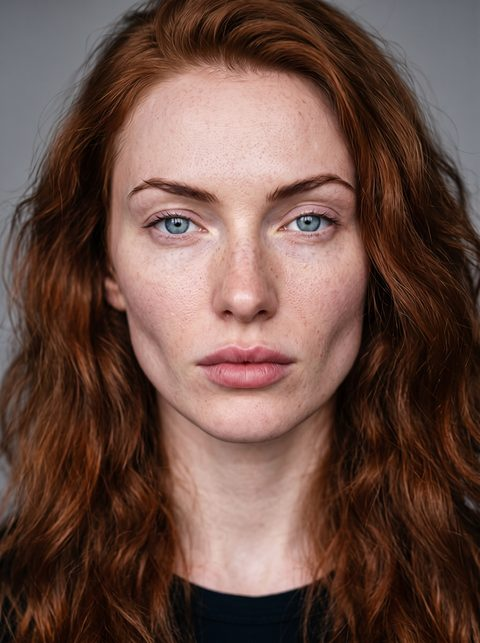
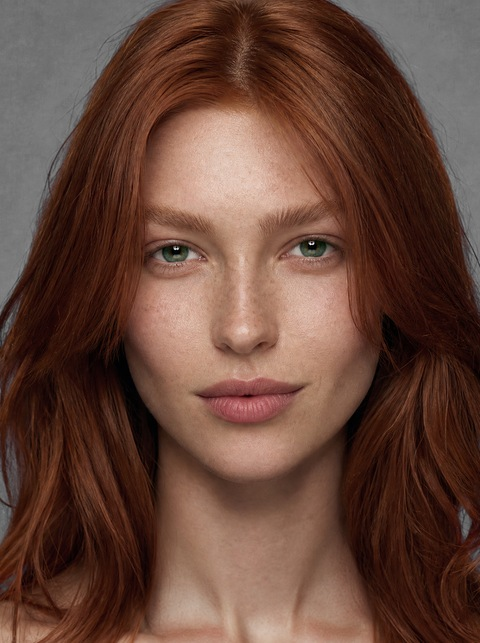
Modeles : nouvelle Alice (femmes), cadrage aligne sur Alex

diff --git a/modeles.html b/modeles.html
@@ -204,7 +204,7 @@ footer a:hover{color:var(--pink2)}
 const FLAT = [{"slug": "femmes-agatha", "name": "Agatha", "section": "Femmes", "sheet": "img/m-femmes-agatha-sheet.jpg", "face": "img/m-femmes-agatha-face.jpg"}, {"slug": "femmes-alex", "name": "Alex", "section": "Femmes", "sheet": "img/m-femmes-alex-sheet.jpg", "face": "img/m-femmes-alex-face.jpg"}, {"slug": "femmes-alice", "name": "Alice", "section": "Femmes", "sheet": "img/m-femmes-alice-sheet.jpg", "face": "img/m-femmes-alice-face.jpg"}, {"slug": "femmes-cyndie", "name": "Cyndie", "section": "Femmes", "sheet": "img/m-femmes-cyndie-sheet.jpg", "face": "img/m-femmes-cyndie-face.jpg"}, {"slug": "femmes-ella", "name": "Ella", "section": "Femmes", "sheet": "img/m-femmes-ella-sheet.jpg", "face": "img/m-femmes-ella-lbface.jpg"}, {"slug": "femmes-eva", "name": "Eva", "section": "Femmes", "sheet": "img/m-femmes-eva-sheet.jpg", "face": "img/m-femmes-eva-face.jpg"}, {"slug": "femmes-ivanka", "name": "Ivanka", "section": "Femmes", "sheet": "img/m-femmes-ivanka-sheet.jpg", "face": "img/m-femmes-ivanka-lbface.jpg"}, {"slug": "femmes-joy", "name": "Joy", "section": "Femmes", "sheet": "img/m-femmes-joy-sheet.jpg", "face": "img/m-femmes-joy-face.jpg"}, {"slug": "femmes-kim", "name": "Kim", "section": "Femmes", "sheet": "img/m-femmes-kim-sheet.jpg", "face": "img/m-femmes-kim-face.jpg"}, {"slug": "femmes-laura", "name": "Laura", "section": "Femmes", "sheet": "img/m-femmes-laura-sheet.jpg", "face": "img/m-femmes-laura-lbface.jpg"}, {"slug": "femmes-malika", "name": "Malika", "section": "Femmes", "sheet": "img/m-femmes-malika-sheet.jpg", "face": "img/m-femmes-malika-face.jpg"}, {"slug": "femmes-meg", "name": "Meg", "section": "Femmes", "sheet": "img/m-femmes-meg-sheet.jpg", "face": "img/m-femmes-meg-lbface.jpg"}, {"slug": "femmes-rachel", "name": "Rachel", "section": "Femmes", "sheet": "img/m-femmes-rachel-sheet.jpg", "face": "img/m-femmes-rachel-lbface.jpg"}, {"slug": "femmes-stephy", "name": "Stephy", "section": "Femmes", "sheet": "img/m-femmes-stephy-sheet.jpg", "face": "img/m-femmes-stephy-lbface.jpg"}, {"slug": "femmes-suzanne", "name": "Suzanne", "section": "Femmes", "sheet": "img/m-femmes-suzanne-sheet.jpg", "face": "img/m-femmes-suzanne-face.jpg"}, {"slug": "femmes-tracy", "name": "Tracy", "section": "Femmes", "sheet": "img/m-femmes-tracy-sheet.jpg", "face": "img/m-femmes-tracy-face.jpg"}, {"slug": "hommes-ansel", "name": "Ansel", "section": "Hommes", "sheet": "img/m-hommes-ansel-sheet.jpg", "face": "img/m-hommes-ansel-face.jpg"}, {"slug": "hommes-bernard", "name": "Bernard", "section": "Hommes", "sheet": "img/m-hommes-bernard-sheet.jpg", "face": "img/m-hommes-bernard-face.jpg"}, {"slug": "hommes-bill", "name": "Bill", "section": "Hommes", "sheet": "img/m-hommes-bill-sheet.jpg", "face": "img/m-hommes-bill-face.jpg"}, {"slug": "hommes-chen", "name": "Chen", "section": "Hommes", "sheet": "img/m-hommes-chen-sheet.jpg", "face": "img/m-hommes-chen-face.jpg"}, {"slug": "hommes-daniel", "name": "Daniel", "section": "Hommes", "sheet": "img/m-hommes-daniel-sheet.jpg", "face": "img/m-hommes-daniel-face.jpg"}, {"slug": "hommes-dave", "name": "Dave", "section": "Hommes", "sheet": "img/m-hommes-dave-sheet.jpg", "face": "img/m-hommes-dave-face.jpg"}, {"slug": "hommes-franck", "name": "Franck", "section": "Hommes", "sheet": "img/m-hommes-franck-sheet.jpg", "face": "img/m-hommes-franck-face.jpg"}, {"slug": "hommes-jack", "name": "Jack", "section": "Hommes", "sheet": "img/m-hommes-jack-sheet.jpg", "face": "img/m-hommes-jack-face.jpg"}, {"slug": "hommes-jamie", "name": "Jamie", "section": "Hommes", "sheet": "img/m-hommes-jamie-sheet.jpg", "face": "img/m-hommes-jamie-face.jpg"}, {"slug": "hommes-joe", "name": "Joe", "section": "Hommes", "sheet": "img/m-hommes-joe-sheet.jpg", "face": "img/m-hommes-joe-face.jpg"}, {"slug": "hommes-john", "name": "John", "section": "Hommes", "sheet": "img/m-hommes-john-sheet.jpg", "face": "img/m-hommes-john-face.jpg"}, {"slug": "hommes-marc", "name": "Marc", "section": "Hommes", "sheet": "img/m-hommes-marc-sheet.jpg", "face": "img/m-hommes-marc-face.jpg"}, {"slug": "hommes-mathias", "name": "Mathias", "section": "Hommes", "sheet": "img/m-hommes-mathias-sheet.jpg", "face": "img/m-hommes-mathias-face.jpg"}, {"slug": "hommes-mike", "name": "Mike", "section": "Hommes", "sheet": "img/m-hommes-mike-sheet.jpg", "face": "img/m-hommes-mike-face.jpg"}, {"slug": "hommes-simon", "name": "Simon", "section": "Hommes", "sheet": "img/m-hommes-simon-sheet.jpg", "face": "img/m-hommes-simon-face.jpg"}, {"slug": "hommes-tom", "name": "Tom", "section": "Hommes", "sheet": "img/m-hommes-tom-sheet.jpg", "face": "img/m-hommes-tom-face.jpg"}, {"slug": "ados-maeva", "name": "Maeva", "section": "Ados", "sheet": "img/m-ados-maeva-sheet.jpg", "face": "img/m-ados-maeva-face.jpg"}, {"slug": "ados-mathis", "name": "Mathis", "section": "Ados", "sheet": "img/m-ados-mathis-sheet.jpg", "face": "img/m-ados-mathis-face.jpg"}, {"slug": "ados-paul", "name": "Paul", "section": "Ados", "sheet": "img/m-ados-paul-sheet.jpg", "face": "img/m-ados-paul-lbface.jpg"}, {"slug": "ados-romy", "name": "Romy", "section": "Ados", "sheet": "img/m-ados-romy-sheet.jpg", "face": "img/m-ados-romy-face.jpg"}, {"slug": "ados-roy", "name": "Roy", "section": "Ados", "sheet": "img/m-ados-roy-sheet.jpg", "face": "img/m-ados-roy-face.jpg"}, {"slug": "ados-steeve", "name": "Steeve", "section": "Ados", "sheet": "img/m-ados-steeve-sheet.jpg", "face": "img/m-ados-steeve-face.jpg"}, {"slug": "enfants-billy", "name": "Billy", "section": "Enfants", "sheet": "img/m-enfants-billy-sheet.jpg", "face": "img/m-enfants-billy-face.jpg"}, {"slug": "enfants-jean", "name": "Jean", "section": "Enfants", "sheet": "img/m-enfants-jean-sheet.jpg", "face": "img/m-enfants-jean-face.jpg"}, {"slug": "enfants-kevin", "name": "Kevin", "section": "Enfants", "sheet": "img/m-enfants-kevin-sheet.jpg", "face": "img/m-enfants-kevin-face.jpg"}, {"slug": "enfants-lauren", "name": "Lauren", "section": "Enfants", "sheet": "img/m-enfants-lauren-sheet.jpg", "face": "img/m-enfants-lauren-face.jpg"}, {"slug": "enfants-lea", "name": "Lea", "section": "Enfants", "sheet": "img/m-enfants-lea-sheet.jpg", "face": "img/m-enfants-lea-face.jpg"}, {"slug": "enfants-rosie", "name": "Rosie", "section": "Enfants", "sheet": "img/m-enfants-rosie-sheet.jpg", "face": "img/m-enfants-rosie-face.jpg"}, {"slug": "seniors-anita", "name": "Anita", "section": "Seniors", "sheet": "img/m-seniors-anita-sheet.jpg", "face": "img/m-seniors-anita-face.jpg"}, {"slug": "seniors-claude", "name": "Claude", "section": "Seniors", "sheet": "img/m-seniors-claude-sheet.jpg", "face": "img/m-seniors-claude-face.jpg"}, {"slug": "seniors-clive", "name": "Clive", "section": "Seniors", "sheet": "img/m-seniors-clive-sheet.jpg", "face": "img/m-seniors-clive-face.jpg"}, {"slug": "seniors-juliette", "name": "Juliette", "section": "Seniors", "sheet": "img/m-seniors-juliette-sheet.jpg", "face": "img/m-seniors-juliette-face.jpg"}, {"slug": "seniors-marise", "name": "Marise", "section": "Seniors", "sheet": "img/m-seniors-marise-sheet.jpg", "face": "img/m-seniors-marise-face.jpg"}, {"slug": "seniors-philippe", "name": "Philippe", "section": "Seniors", "sheet": "img/m-seniors-philippe-sheet.jpg", "face": "img/m-seniors-philippe-face.jpg"}];
 (function(){var e=document.getElementById('kcount');if(!e)return;var s={};FLAT.forEach(function(m){s[m.section]=1});e.textContent=FLAT.length+' visages \u00b7 '+Object.keys(s).length+' catégories';})();
 
-const STATS = {"femmes-agatha": {"h": 176, "hair": "Blond", "eyes": "Bleu"}, "femmes-alex": {"h": 174, "hair": "Châtain foncé, balayage caramel", "eyes": "Noisette"}, "femmes-alice": {"h": 178, "hair": "Roux", "eyes": "Bleu"}, "femmes-cyndie": {"h": 179, "hair": "Noir", "eyes": "Marron"}, "femmes-ella": {"h": 175, "hair": "Châtain clair", "eyes": "Vert"}, "femmes-eva": {"h": 172, "hair": "Noir", "eyes": "Marron"}, "femmes-ivanka": {"h": 175, "hair": "Blond vénitien", "eyes": "Vert"}, "femmes-joy": {"h": 180, "hair": "Noir", "eyes": "Vert"}, "femmes-kim": {"h": 171, "hair": "Châtain foncé", "eyes": "Vert"}, "femmes-laura": {"h": 178, "hair": "Châtain clair", "eyes": "Vert"}, "femmes-malika": {"h": 173, "hair": "Noir", "eyes": "Marron"}, "femmes-meg": {"h": 179, "hair": "Noir", "eyes": "Marron"}, "femmes-rachel": {"h": 176, "hair": "Blond", "eyes": "Bleu"}, "femmes-stephy": {"h": 174, "hair": "Roux", "eyes": "Vert"}, "femmes-suzanne": {"h": 177, "hair": "Noir", "eyes": "Marron"}, "femmes-tracy": {"h": 175, "hair": "Brun", "eyes": "Marron"}, "hommes-ansel": {"h": 187, "hair": "Blond", "eyes": "Bleu"}, "hommes-bernard": {"h": 184, "hair": "Noir", "eyes": "Marron"}, "hommes-bill": {"h": 182, "hair": "Gris", "eyes": "Bleu"}, "hommes-chen": {"h": 180, "hair": "Noir", "eyes": "Marron"}, "hommes-daniel": {"h": 190, "hair": "Châtain", "eyes": "Bleu"}, "hommes-dave": {"h": 186, "hair": "Gris", "eyes": "Bleu"}, "hommes-franck": {"h": 185, "hair": "Brun", "eyes": "Marron"}, "hommes-jack": {"h": 179, "hair": "Noir", "eyes": "Marron"}, "hommes-jamie": {"h": 181, "hair": "Noir", "eyes": "Marron"}, "hommes-joe": {"h": 183, "hair": "Châtain foncé", "eyes": "Marron"}, "hommes-john": {"h": 188, "hair": "Blond", "eyes": "Bleu"}, "hommes-marc": {"h": 186, "hair": "Noir", "eyes": "Marron"}, "hommes-mathias": {"h": 184, "hair": "Poivre et sel", "eyes": "Bleu"}, "hommes-mike": {"h": 182, "hair": "Brun", "eyes": "Marron"}, "hommes-simon": {"h": 189, "hair": "Noir", "eyes": "Marron"}, "hommes-tom": {"h": 185, "hair": "Brun", "eyes": "Bleu"}, "ados-maeva": {"h": 170, "hair": "Brun", "eyes": "Marron"}, "ados-mathis": {"h": 178, "hair": "Brun", "eyes": "Marron"}, "ados-paul": {"h": 180, "hair": "Noir", "eyes": "Marron"}, "ados-romy": {"h": 168, "hair": "Brun", "eyes": "Marron"}, "ados-roy": {"h": 179, "hair": "Noir", "eyes": "Marron"}, "ados-steeve": {"h": 182, "hair": "Brun", "eyes": "Marron"}, "enfants-billy": {"h": 116, "hair": "Roux", "eyes": "Bleu", "age": 6}, "enfants-jean": {"h": 138, "hair": "Châtain", "eyes": "Vert", "age": 10}, "enfants-kevin": {"h": 110, "hair": "Noir", "eyes": "Marron", "age": 5}, "enfants-lauren": {"h": 116, "hair": "Châtain clair", "eyes": "Vert", "age": 6}, "enfants-lea": {"h": 110, "hair": "Brun", "eyes": "Marron", "age": 5}, "enfants-rosie": {"h": 122, "hair": "Blond", "eyes": "Bleu", "age": 7}, "seniors-anita": {"h": 158, "hair": "Blanc", "eyes": "Marron", "age": 85}, "seniors-claude": {"h": 178, "hair": "Gris", "eyes": "Marron", "age": 82}, "seniors-clive": {"h": 180, "hair": "Blanc", "eyes": "Bleu", "age": 80}, "seniors-juliette": {"h": 168, "hair": "Gris", "eyes": "Bleu", "age": 65}, "seniors-marise": {"h": 160, "hair": "Gris", "eyes": "Marron", "age": 67}, "seniors-philippe": {"h": 179, "hair": "Gris", "eyes": "Marron", "age": 67}};
+const STATS = {"femmes-agatha": {"h": 176, "hair": "Blond", "eyes": "Bleu"}, "femmes-alex": {"h": 174, "hair": "Châtain foncé, balayage caramel", "eyes": "Noisette"}, "femmes-alice": {"h": 180, "hair": "Roux cuivré", "eyes": "Vert"}, "femmes-cyndie": {"h": 179, "hair": "Noir", "eyes": "Marron"}, "femmes-ella": {"h": 175, "hair": "Châtain clair", "eyes": "Vert"}, "femmes-eva": {"h": 172, "hair": "Noir", "eyes": "Marron"}, "femmes-ivanka": {"h": 175, "hair": "Blond vénitien", "eyes": "Vert"}, "femmes-joy": {"h": 180, "hair": "Noir", "eyes": "Vert"}, "femmes-kim": {"h": 171, "hair": "Châtain foncé", "eyes": "Vert"}, "femmes-laura": {"h": 178, "hair": "Châtain clair", "eyes": "Vert"}, "femmes-malika": {"h": 173, "hair": "Noir", "eyes": "Marron"}, "femmes-meg": {"h": 179, "hair": "Noir", "eyes": "Marron"}, "femmes-rachel": {"h": 176, "hair": "Blond", "eyes": "Bleu"}, "femmes-stephy": {"h": 174, "hair": "Roux", "eyes": "Vert"}, "femmes-suzanne": {"h": 177, "hair": "Noir", "eyes": "Marron"}, "femmes-tracy": {"h": 175, "hair": "Brun", "eyes": "Marron"}, "hommes-ansel": {"h": 187, "hair": "Blond", "eyes": "Bleu"}, "hommes-bernard": {"h": 184, "hair": "Noir", "eyes": "Marron"}, "hommes-bill": {"h": 182, "hair": "Gris", "eyes": "Bleu"}, "hommes-chen": {"h": 180, "hair": "Noir", "eyes": "Marron"}, "hommes-daniel": {"h": 190, "hair": "Châtain", "eyes": "Bleu"}, "hommes-dave": {"h": 186, "hair": "Gris", "eyes": "Bleu"}, "hommes-franck": {"h": 185, "hair": "Brun", "eyes": "Marron"}, "hommes-jack": {"h": 179, "hair": "Noir", "eyes": "Marron"}, "hommes-jamie": {"h": 181, "hair": "Noir", "eyes": "Marron"}, "hommes-joe": {"h": 183, "hair": "Châtain foncé", "eyes": "Marron"}, "hommes-john": {"h": 188, "hair": "Blond", "eyes": "Bleu"}, "hommes-marc": {"h": 186, "hair": "Noir", "eyes": "Marron"}, "hommes-mathias": {"h": 184, "hair": "Poivre et sel", "eyes": "Bleu"}, "hommes-mike": {"h": 182, "hair": "Brun", "eyes": "Marron"}, "hommes-simon": {"h": 189, "hair": "Noir", "eyes": "Marron"}, "hommes-tom": {"h": 185, "hair": "Brun", "eyes": "Bleu"}, "ados-maeva": {"h": 170, "hair": "Brun", "eyes": "Marron"}, "ados-mathis": {"h": 178, "hair": "Brun", "eyes": "Marron"}, "ados-paul": {"h": 180, "hair": "Noir", "eyes": "Marron"}, "ados-romy": {"h": 168, "hair": "Brun", "eyes": "Marron"}, "ados-roy": {"h": 179, "hair": "Noir", "eyes": "Marron"}, "ados-steeve": {"h": 182, "hair": "Brun", "eyes": "Marron"}, "enfants-billy": {"h": 116, "hair": "Roux", "eyes": "Bleu", "age": 6}, "enfants-jean": {"h": 138, "hair": "Châtain", "eyes": "Vert", "age": 10}, "enfants-kevin": {"h": 110, "hair": "Noir", "eyes": "Marron", "age": 5}, "enfants-lauren": {"h": 116, "hair": "Châtain clair", "eyes": "Vert", "age": 6}, "enfants-lea": {"h": 110, "hair": "Brun", "eyes": "Marron", "age": 5}, "enfants-rosie": {"h": 122, "hair": "Blond", "eyes": "Bleu", "age": 7}, "seniors-anita": {"h": 158, "hair": "Blanc", "eyes": "Marron", "age": 85}, "seniors-claude": {"h": 178, "hair": "Gris", "eyes": "Marron", "age": 82}, "seniors-clive": {"h": 180, "hair": "Blanc", "eyes": "Bleu", "age": 80}, "seniors-juliette": {"h": 168, "hair": "Gris", "eyes": "Bleu", "age": 65}, "seniors-marise": {"h": 160, "hair": "Gris", "eyes": "Marron", "age": 67}, "seniors-philippe": {"h": 179, "hair": "Gris", "eyes": "Marron", "age": 67}};
 function tall(cm){
   return (cm/100).toFixed(2).replace('.',',')+' m';
 }

diff --git a/models-en.html b/models-en.html
@@ -204,7 +204,7 @@ footer a:hover{color:var(--pink2)}
 const FLAT = [{"slug": "femmes-agatha", "name": "Agatha", "section": "Women", "sheet": "img/m-femmes-agatha-sheet.jpg", "face": "img/m-femmes-agatha-face.jpg"}, {"slug": "femmes-alex", "name": "Alex", "section": "Women", "sheet": "img/m-femmes-alex-sheet.jpg", "face": "img/m-femmes-alex-face.jpg"}, {"slug": "femmes-alice", "name": "Alice", "section": "Women", "sheet": "img/m-femmes-alice-sheet.jpg", "face": "img/m-femmes-alice-face.jpg"}, {"slug": "femmes-cyndie", "name": "Cyndie", "section": "Women", "sheet": "img/m-femmes-cyndie-sheet.jpg", "face": "img/m-femmes-cyndie-face.jpg"}, {"slug": "femmes-ella", "name": "Ella", "section": "Women", "sheet": "img/m-femmes-ella-sheet.jpg", "face": "img/m-femmes-ella-lbface.jpg"}, {"slug": "femmes-eva", "name": "Eva", "section": "Women", "sheet": "img/m-femmes-eva-sheet.jpg", "face": "img/m-femmes-eva-face.jpg"}, {"slug": "femmes-ivanka", "name": "Ivanka", "section": "Women", "sheet": "img/m-femmes-ivanka-sheet.jpg", "face": "img/m-femmes-ivanka-lbface.jpg"}, {"slug": "femmes-joy", "name": "Joy", "section": "Women", "sheet": "img/m-femmes-joy-sheet.jpg", "face": "img/m-femmes-joy-face.jpg"}, {"slug": "femmes-kim", "name": "Kim", "section": "Women", "sheet": "img/m-femmes-kim-sheet.jpg", "face": "img/m-femmes-kim-face.jpg"}, {"slug": "femmes-laura", "name": "Laura", "section": "Women", "sheet": "img/m-femmes-laura-sheet.jpg", "face": "img/m-femmes-laura-lbface.jpg"}, {"slug": "femmes-malika", "name": "Malika", "section": "Women", "sheet": "img/m-femmes-malika-sheet.jpg", "face": "img/m-femmes-malika-face.jpg"}, {"slug": "femmes-meg", "name": "Meg", "section": "Women", "sheet": "img/m-femmes-meg-sheet.jpg", "face": "img/m-femmes-meg-lbface.jpg"}, {"slug": "femmes-rachel", "name": "Rachel", "section": "Women", "sheet": "img/m-femmes-rachel-sheet.jpg", "face": "img/m-femmes-rachel-lbface.jpg"}, {"slug": "femmes-stephy", "name": "Stephy", "section": "Women", "sheet": "img/m-femmes-stephy-sheet.jpg", "face": "img/m-femmes-stephy-lbface.jpg"}, {"slug": "femmes-suzanne", "name": "Suzanne", "section": "Women", "sheet": "img/m-femmes-suzanne-sheet.jpg", "face": "img/m-femmes-suzanne-face.jpg"}, {"slug": "femmes-tracy", "name": "Tracy", "section": "Women", "sheet": "img/m-femmes-tracy-sheet.jpg", "face": "img/m-femmes-tracy-face.jpg"}, {"slug": "hommes-ansel", "name": "Ansel", "section": "Men", "sheet": "img/m-hommes-ansel-sheet.jpg", "face": "img/m-hommes-ansel-face.jpg"}, {"slug": "hommes-bernard", "name": "Bernard", "section": "Men", "sheet": "img/m-hommes-bernard-sheet.jpg", "face": "img/m-hommes-bernard-face.jpg"}, {"slug": "hommes-bill", "name": "Bill", "section": "Men", "sheet": "img/m-hommes-bill-sheet.jpg", "face": "img/m-hommes-bill-face.jpg"}, {"slug": "hommes-chen", "name": "Chen", "section": "Men", "sheet": "img/m-hommes-chen-sheet.jpg", "face": "img/m-hommes-chen-face.jpg"}, {"slug": "hommes-daniel", "name": "Daniel", "section": "Men", "sheet": "img/m-hommes-daniel-sheet.jpg", "face": "img/m-hommes-daniel-face.jpg"}, {"slug": "hommes-dave", "name": "Dave", "section": "Men", "sheet": "img/m-hommes-dave-sheet.jpg", "face": "img/m-hommes-dave-face.jpg"}, {"slug": "hommes-franck", "name": "Franck", "section": "Men", "sheet": "img/m-hommes-franck-sheet.jpg", "face": "img/m-hommes-franck-face.jpg"}, {"slug": "hommes-jack", "name": "Jack", "section": "Men", "sheet": "img/m-hommes-jack-sheet.jpg", "face": "img/m-hommes-jack-face.jpg"}, {"slug": "hommes-jamie", "name": "Jamie", "section": "Men", "sheet": "img/m-hommes-jamie-sheet.jpg", "face": "img/m-hommes-jamie-face.jpg"}, {"slug": "hommes-joe", "name": "Joe", "section": "Men", "sheet": "img/m-hommes-joe-sheet.jpg", "face": "img/m-hommes-joe-face.jpg"}, {"slug": "hommes-john", "name": "John", "section": "Men", "sheet": "img/m-hommes-john-sheet.jpg", "face": "img/m-hommes-john-face.jpg"}, {"slug": "hommes-marc", "name": "Marc", "section": "Men", "sheet": "img/m-hommes-marc-sheet.jpg", "face": "img/m-hommes-marc-face.jpg"}, {"slug": "hommes-mathias", "name": "Mathias", "section": "Men", "sheet": "img/m-hommes-mathias-sheet.jpg", "face": "img/m-hommes-mathias-face.jpg"}, {"slug": "hommes-mike", "name": "Mike", "section": "Men", "sheet": "img/m-hommes-mike-sheet.jpg", "face": "img/m-hommes-mike-face.jpg"}, {"slug": "hommes-simon", "name": "Simon", "section": "Men", "sheet": "img/m-hommes-simon-sheet.jpg", "face": "img/m-hommes-simon-face.jpg"}, {"slug": "hommes-tom", "name": "Tom", "section": "Men", "sheet": "img/m-hommes-tom-sheet.jpg", "face": "img/m-hommes-tom-face.jpg"}, {"slug": "ados-maeva", "name": "Maeva", "section": "Teens", "sheet": "img/m-ados-maeva-sheet.jpg", "face": "img/m-ados-maeva-face.jpg"}, {"slug": "ados-mathis", "name": "Mathis", "section": "Teens", "sheet": "img/m-ados-mathis-sheet.jpg", "face": "img/m-ados-mathis-face.jpg"}, {"slug": "ados-paul", "name": "Paul", "section": "Teens", "sheet": "img/m-ados-paul-sheet.jpg", "face": "img/m-ados-paul-lbface.jpg"}, {"slug": "ados-romy", "name": "Romy", "section": "Teens", "sheet": "img/m-ados-romy-sheet.jpg", "face": "img/m-ados-romy-face.jpg"}, {"slug": "ados-roy", "name": "Roy", "section": "Teens", "sheet": "img/m-ados-roy-sheet.jpg", "face": "img/m-ados-roy-face.jpg"}, {"slug": "ados-steeve", "name": "Steeve", "section": "Teens", "sheet": "img/m-ados-steeve-sheet.jpg", "face": "img/m-ados-steeve-face.jpg"}, {"slug": "enfants-billy", "name": "Billy", "section": "Kids", "sheet": "img/m-enfants-billy-sheet.jpg", "face": "img/m-enfants-billy-face.jpg"}, {"slug": "enfants-jean", "name": "Jean", "section": "Kids", "sheet": "img/m-enfants-jean-sheet.jpg", "face": "img/m-enfants-jean-face.jpg"}, {"slug": "enfants-kevin", "name": "Kevin", "section": "Kids", "sheet": "img/m-enfants-kevin-sheet.jpg", "face": "img/m-enfants-kevin-face.jpg"}, {"slug": "enfants-lauren", "name": "Lauren", "section": "Kids", "sheet": "img/m-enfants-lauren-sheet.jpg", "face": "img/m-enfants-lauren-face.jpg"}, {"slug": "enfants-lea", "name": "Lea", "section": "Kids", "sheet": "img/m-enfants-lea-sheet.jpg", "face": "img/m-enfants-lea-face.jpg"}, {"slug": "enfants-rosie", "name": "Rosie", "section": "Kids", "sheet": "img/m-enfants-rosie-sheet.jpg", "face": "img/m-enfants-rosie-face.jpg"}, {"slug": "seniors-anita", "name": "Anita", "section": "Seniors", "sheet": "img/m-seniors-anita-sheet.jpg", "face": "img/m-seniors-anita-face.jpg"}, {"slug": "seniors-claude", "name": "Claude", "section": "Seniors", "sheet": "img/m-seniors-claude-sheet.jpg", "face": "img/m-seniors-claude-face.jpg"}, {"slug": "seniors-clive", "name": "Clive", "section": "Seniors", "sheet": "img/m-seniors-clive-sheet.jpg", "face": "img/m-seniors-clive-face.jpg"}, {"slug": "seniors-juliette", "name": "Juliette", "section": "Seniors", "sheet": "img/m-seniors-juliette-sheet.jpg", "face": "img/m-seniors-juliette-face.jpg"}, {"slug": "seniors-marise", "name": "Marise", "section": "Seniors", "sheet": "img/m-seniors-marise-sheet.jpg", "face": "img/m-seniors-marise-face.jpg"}, {"slug": "seniors-philippe", "name": "Philippe", "section": "Seniors", "sheet": "img/m-seniors-philippe-sheet.jpg", "face": "img/m-seniors-philippe-face.jpg"}];
 (function(){var e=document.getElementById('kcount');if(!e)return;var s={};FLAT.forEach(function(m){s[m.section]=1});e.textContent=FLAT.length+' faces \u00b7 '+Object.keys(s).length+' categories';})();
 
-const STATS = {"femmes-agatha": {"h": 176, "hair": "Blonde", "eyes": "Blue"}, "femmes-alex": {"h": 174, "hair": "Dark brown with honey highlights", "eyes": "Hazel"}, "femmes-alice": {"h": 178, "hair": "Red", "eyes": "Blue"}, "femmes-cyndie": {"h": 179, "hair": "Black", "eyes": "Brown"}, "femmes-ella": {"h": 175, "hair": "Light brown", "eyes": "Green"}, "femmes-eva": {"h": 172, "hair": "Black", "eyes": "Brown"}, "femmes-ivanka": {"h": 175, "hair": "Strawberry blonde", "eyes": "Green"}, "femmes-joy": {"h": 180, "hair": "Black", "eyes": "Green"}, "femmes-kim": {"h": 171, "hair": "Dark brown", "eyes": "Green"}, "femmes-laura": {"h": 178, "hair": "Light brown", "eyes": "Green"}, "femmes-malika": {"h": 173, "hair": "Black", "eyes": "Brown"}, "femmes-meg": {"h": 179, "hair": "Black", "eyes": "Brown"}, "femmes-rachel": {"h": 176, "hair": "Blonde", "eyes": "Blue"}, "femmes-stephy": {"h": 174, "hair": "Red", "eyes": "Green"}, "femmes-suzanne": {"h": 177, "hair": "Black", "eyes": "Brown"}, "femmes-tracy": {"h": 175, "hair": "Brown", "eyes": "Brown"}, "hommes-ansel": {"h": 187, "hair": "Blonde", "eyes": "Blue"}, "hommes-bernard": {"h": 184, "hair": "Black", "eyes": "Brown"}, "hommes-bill": {"h": 182, "hair": "Grey", "eyes": "Blue"}, "hommes-chen": {"h": 180, "hair": "Black", "eyes": "Brown"}, "hommes-daniel": {"h": 190, "hair": "Brown", "eyes": "Blue"}, "hommes-dave": {"h": 186, "hair": "Grey", "eyes": "Blue"}, "hommes-franck": {"h": 185, "hair": "Brown", "eyes": "Brown"}, "hommes-jack": {"h": 179, "hair": "Black", "eyes": "Brown"}, "hommes-jamie": {"h": 181, "hair": "Black", "eyes": "Brown"}, "hommes-joe": {"h": 183, "hair": "Dark brown", "eyes": "Brown"}, "hommes-john": {"h": 188, "hair": "Blonde", "eyes": "Blue"}, "hommes-marc": {"h": 186, "hair": "Black", "eyes": "Brown"}, "hommes-mathias": {"h": 184, "hair": "Salt and pepper", "eyes": "Blue"}, "hommes-mike": {"h": 182, "hair": "Brown", "eyes": "Brown"}, "hommes-simon": {"h": 189, "hair": "Black", "eyes": "Brown"}, "hommes-tom": {"h": 185, "hair": "Brown", "eyes": "Blue"}, "ados-maeva": {"h": 170, "hair": "Brown", "eyes": "Brown"}, "ados-mathis": {"h": 178, "hair": "Brown", "eyes": "Brown"}, "ados-paul": {"h": 180, "hair": "Black", "eyes": "Brown"}, "ados-romy": {"h": 168, "hair": "Brown", "eyes": "Brown"}, "ados-roy": {"h": 179, "hair": "Black", "eyes": "Brown"}, "ados-steeve": {"h": 182, "hair": "Brown", "eyes": "Brown"}, "enfants-billy": {"h": 116, "hair": "Red", "eyes": "Blue", "age": 6}, "enfants-jean": {"h": 138, "hair": "Brown", "eyes": "Green", "age": 10}, "enfants-kevin": {"h": 110, "hair": "Black", "eyes": "Brown", "age": 5}, "enfants-lauren": {"h": 116, "hair": "Light brown", "eyes": "Green", "age": 6}, "enfants-lea": {"h": 110, "hair": "Brown", "eyes": "Brown", "age": 5}, "enfants-rosie": {"h": 122, "hair": "Blonde", "eyes": "Blue", "age": 7}, "seniors-anita": {"h": 158, "hair": "White", "eyes": "Brown", "age": 85}, "seniors-claude": {"h": 178, "hair": "Grey", "eyes": "Brown", "age": 82}, "seniors-clive": {"h": 180, "hair": "White", "eyes": "Blue", "age": 80}, "seniors-juliette": {"h": 168, "hair": "Grey", "eyes": "Blue", "age": 65}, "seniors-marise": {"h": 160, "hair": "Grey", "eyes": "Brown", "age": 67}, "seniors-philippe": {"h": 179, "hair": "Grey", "eyes": "Brown", "age": 67}};
+const STATS = {"femmes-agatha": {"h": 176, "hair": "Blonde", "eyes": "Blue"}, "femmes-alex": {"h": 174, "hair": "Dark brown with honey highlights", "eyes": "Hazel"}, "femmes-alice": {"h": 180, "hair": "Copper red", "eyes": "Green"}, "femmes-cyndie": {"h": 179, "hair": "Black", "eyes": "Brown"}, "femmes-ella": {"h": 175, "hair": "Light brown", "eyes": "Green"}, "femmes-eva": {"h": 172, "hair": "Black", "eyes": "Brown"}, "femmes-ivanka": {"h": 175, "hair": "Strawberry blonde", "eyes": "Green"}, "femmes-joy": {"h": 180, "hair": "Black", "eyes": "Green"}, "femmes-kim": {"h": 171, "hair": "Dark brown", "eyes": "Green"}, "femmes-laura": {"h": 178, "hair": "Light brown", "eyes": "Green"}, "femmes-malika": {"h": 173, "hair": "Black", "eyes": "Brown"}, "femmes-meg": {"h": 179, "hair": "Black", "eyes": "Brown"}, "femmes-rachel": {"h": 176, "hair": "Blonde", "eyes": "Blue"}, "femmes-stephy": {"h": 174, "hair": "Red", "eyes": "Green"}, "femmes-suzanne": {"h": 177, "hair": "Black", "eyes": "Brown"}, "femmes-tracy": {"h": 175, "hair": "Brown", "eyes": "Brown"}, "hommes-ansel": {"h": 187, "hair": "Blonde", "eyes": "Blue"}, "hommes-bernard": {"h": 184, "hair": "Black", "eyes": "Brown"}, "hommes-bill": {"h": 182, "hair": "Grey", "eyes": "Blue"}, "hommes-chen": {"h": 180, "hair": "Black", "eyes": "Brown"}, "hommes-daniel": {"h": 190, "hair": "Brown", "eyes": "Blue"}, "hommes-dave": {"h": 186, "hair": "Grey", "eyes": "Blue"}, "hommes-franck": {"h": 185, "hair": "Brown", "eyes": "Brown"}, "hommes-jack": {"h": 179, "hair": "Black", "eyes": "Brown"}, "hommes-jamie": {"h": 181, "hair": "Black", "eyes": "Brown"}, "hommes-joe": {"h": 183, "hair": "Dark brown", "eyes": "Brown"}, "hommes-john": {"h": 188, "hair": "Blonde", "eyes": "Blue"}, "hommes-marc": {"h": 186, "hair": "Black", "eyes": "Brown"}, "hommes-mathias": {"h": 184, "hair": "Salt and pepper", "eyes": "Blue"}, "hommes-mike": {"h": 182, "hair": "Brown", "eyes": "Brown"}, "hommes-simon": {"h": 189, "hair": "Black", "eyes": "Brown"}, "hommes-tom": {"h": 185, "hair": "Brown", "eyes": "Blue"}, "ados-maeva": {"h": 170, "hair": "Brown", "eyes": "Brown"}, "ados-mathis": {"h": 178, "hair": "Brown", "eyes": "Brown"}, "ados-paul": {"h": 180, "hair": "Black", "eyes": "Brown"}, "ados-romy": {"h": 168, "hair": "Brown", "eyes": "Brown"}, "ados-roy": {"h": 179, "hair": "Black", "eyes": "Brown"}, "ados-steeve": {"h": 182, "hair": "Brown", "eyes": "Brown"}, "enfants-billy": {"h": 116, "hair": "Red", "eyes": "Blue", "age": 6}, "enfants-jean": {"h": 138, "hair": "Brown", "eyes": "Green", "age": 10}, "enfants-kevin": {"h": 110, "hair": "Black", "eyes": "Brown", "age": 5}, "enfants-lauren": {"h": 116, "hair": "Light brown", "eyes": "Green", "age": 6}, "enfants-lea": {"h": 110, "hair": "Brown", "eyes": "Brown", "age": 5}, "enfants-rosie": {"h": 122, "hair": "Blonde", "eyes": "Blue", "age": 7}, "seniors-anita": {"h": 158, "hair": "White", "eyes": "Brown", "age": 85}, "seniors-claude": {"h": 178, "hair": "Grey", "eyes": "Brown", "age": 82}, "seniors-clive": {"h": 180, "hair": "White", "eyes": "Blue", "age": 80}, "seniors-juliette": {"h": 168, "hair": "Grey", "eyes": "Blue", "age": 65}, "seniors-marise": {"h": 160, "hair": "Grey", "eyes": "Brown", "age": 67}, "seniors-philippe": {"h": 179, "hair": "Grey", "eyes": "Brown", "age": 67}};
 function tall(cm){
   var i=Math.round(cm/2.54), f=Math.floor(i/12); return f+"'"+(i-f*12)+'"';
 }
